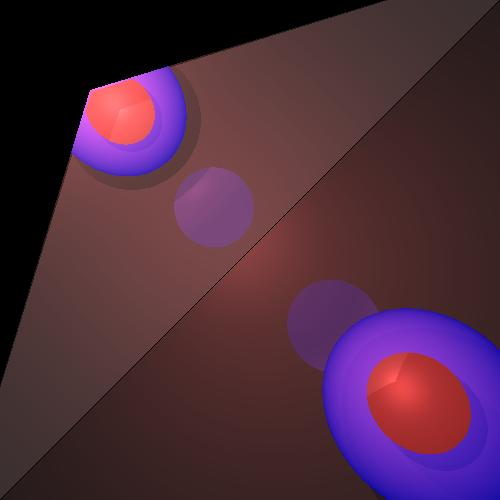
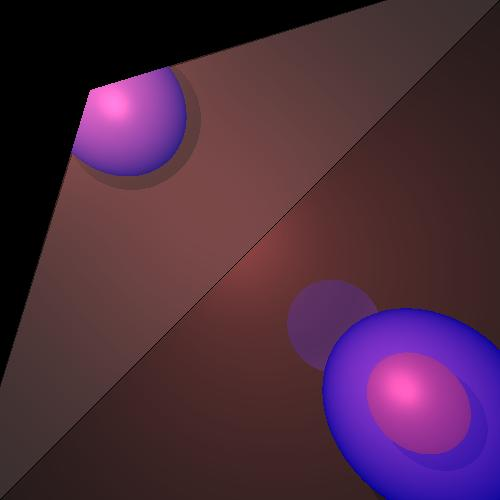
yay fixed

Changed region(s): [[0.15, 0.12, 0.39, 0.36], [0.72, 0.69, 0.96, 0.93], [0.33, 0.33, 0.51, 0.51]]

diff --git a/unittests/RecursiveTest.java b/unittests/RecursiveTest.java
@@ -99,6 +99,12 @@ public class RecursiveTest {
 		scene.set_distance(300);
 		scene.set_background(new Color(0, 0, 0));
 		scene.set_ambientLight(new AmbientLight());
+		
+		Sphere sphere = new Sphere(300, new Point3D(0, 0, -1500), new Color(0, 0, 100), new Material(0.5, 0.3, 10, 0, 0.5));
+		scene.addGeometry(sphere);
+
+		Sphere sphere2 = new Sphere(150, new Point3D(0, 0, -1500), new Color(100, 20, 20), new Material(0.4, 0.6, 10, 0.5, 0));
+		scene.addGeometry(sphere2);
 
 		Triangle triangle = new Triangle(new Point3D(2000, -1000, -2000), new Point3D(-1000, 2000, -2000),
 				new Point3D(700, 700, -875), new Color(20, 20, 20), new Material(0.5, 0.3, 10, 1, 0));
@@ -107,12 +113,6 @@ public class RecursiveTest {
 				new Point3D(-1000, -1000, -2000), new Color(20, 20, 20), new Material(0.55, 0.25, 10, 0.5, 0));
 
 		scene.addGeometry(triangle);
-		
-		Sphere sphere = new Sphere(300, new Point3D(0, 0, -1500), new Color(0, 0, 100), new Material(0.5, 0.3, 10, 0, 0.5));
-		scene.addGeometry(sphere);
-
-		Sphere sphere2 = new Sphere(150, new Point3D(0, 0, -1500), new Color(100, 20, 20), new Material(0.4, 0.6, 10, 0.5, 0));
-		scene.addGeometry(sphere2);
 		
 		scene.addGeometry(triangle2);
 

diff --git a/geometries/Geometries.java b/geometries/Geometries.java
@@ -29,7 +29,7 @@ public class Geometries extends Geometry {
 	
 	@Override
 	public Map<Geometry, List<Point3D>> findIntersectionPoints(Ray r) {
-		findIntersections = new HashMap<Geometry, List<Point3D>>();
+		/*findIntersections = new HashMap<Geometry, List<Point3D>>();
 		pointsIntersections = new ArrayList<Point3D>();
 		List<Point3D> intersections = new ArrayList<Point3D>();
 		Map<Geometry, List<Point3D>> map = new HashMap<Geometry, List<Point3D>>();
@@ -44,7 +44,19 @@ public class Geometries extends Geometry {
 				}
 			}
 		}
-		return findIntersections;
+		return findIntersections;*/
+		
+		Map<Geometry, List<Point3D>> intersectionPoints = new HashMap<Geometry, List<Point3D>>();
+		for (Geometry geometry : geometriesList) {
+			Map<Geometry, List<Point3D>> geometryIntersectionPoints = new HashMap<Geometry, List<Point3D>>(
+					geometry.findIntersectionPoints(r));
+
+			geometryIntersectionPoints.forEach((g, list) -> {
+				if (list.size() > 0)
+					intersectionPoints.put(g, list);
+			});
+		}
+		return intersectionPoints;
 	}
 
 }

diff --git a/unittests/RenderTest.java b/unittests/RenderTest.java
@@ -230,11 +230,9 @@ public class RenderTest {
 
 		Sphere sphere = new Sphere(60, new Point3D(0, 0, 80), new Color(0, 0, 70), new Material(0.9, 0.5, 30,0,0));
 
-		
-
 		geometries.add(triangle1);
-		geometries.add(triangle2);
 		geometries.add(sphere);
+		geometries.add(triangle2);
 
 		scene.set_geometries(geometries);
 		List<LightSource> lights = new ArrayList<LightSource>();
